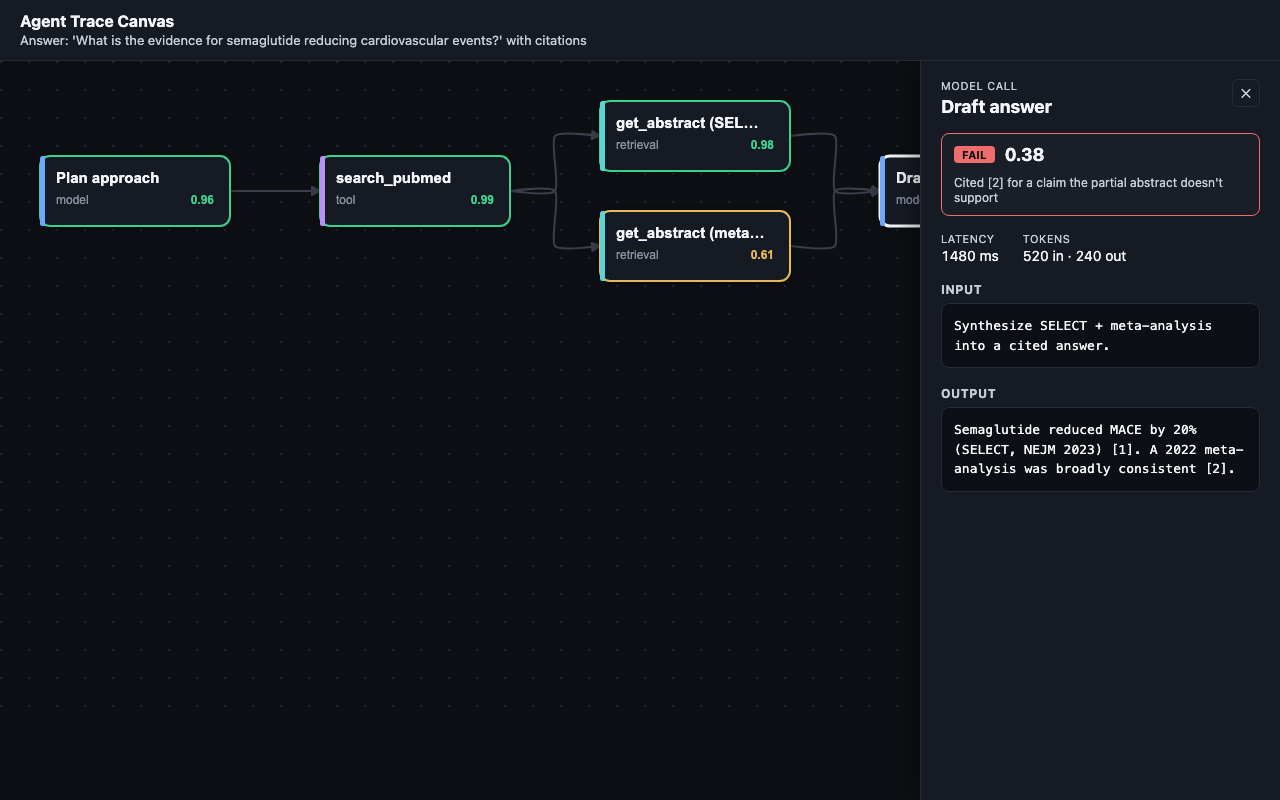
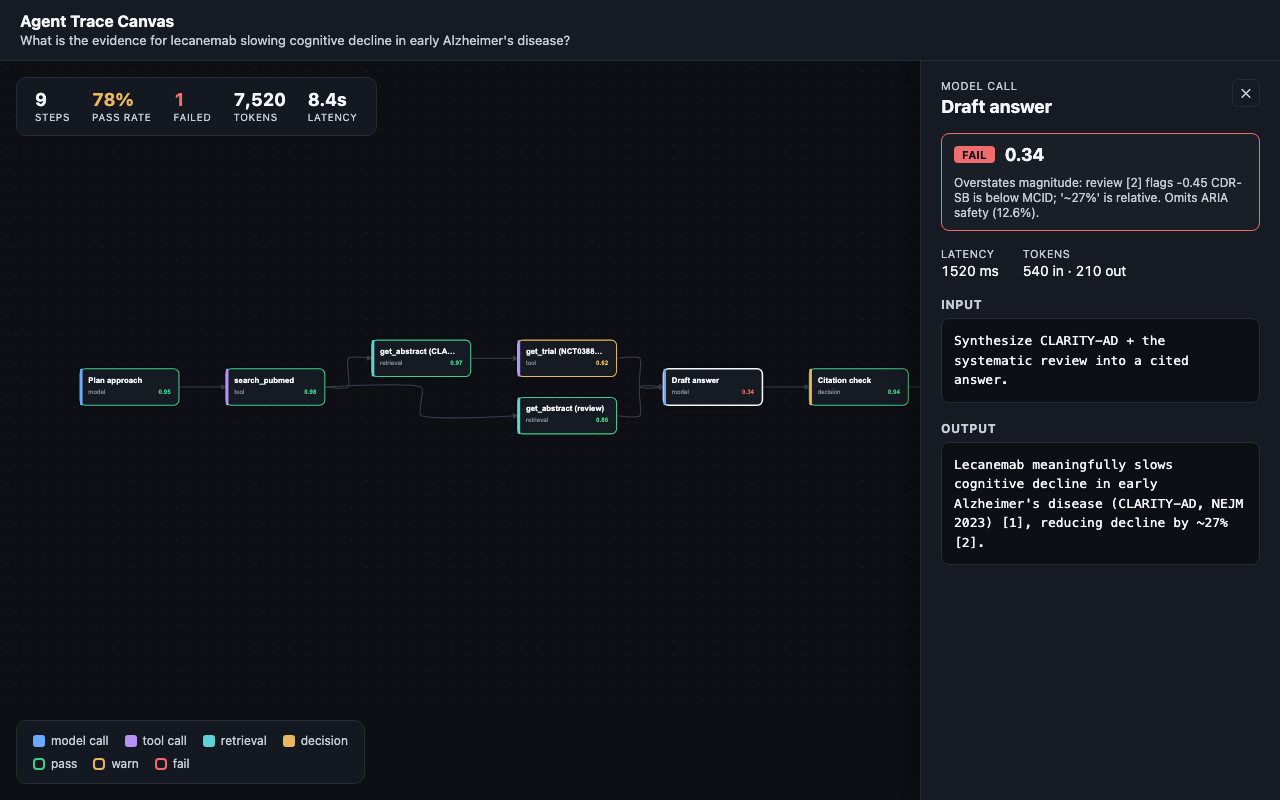
feat: swap in a real PubCrawl agent trace (lecanemab / CLARITY-AD)
- sample-trace.json now from a genuine PubCrawl MCP run: real PMIDs,
  CLARITY-AD primary endpoint, trial registry, systematic review, citation
- honest evals: failed Draft step overstates clinical magnitude (-0.45 CDR-SB
  below MCID); get_trial warns on token-heavy eligibility payload
- Trace.source provenance field; README notes real I/O, illustrative timings
- refreshed docs screenshots

diff --git a/src/types.ts b/src/types.ts
@@ -28,6 +28,8 @@ export interface TraceEdge {
 export interface Trace {
   runId: string
   task: string
+  /** Provenance of the trace data (e.g. which tools produced it). */
+  source?: string
   nodes: TraceNode[]
   edges: TraceEdge[]
 }

diff --git a/README.md b/README.md
@@ -12,9 +12,15 @@ Think *LangSmith traces meet an infinite canvas* — agent observability you can
 ## Why
 
 Reading a giant JSON trace log to debug an agent is painful. Spatial beats linear: branches,
-retries, and dead-ends are obvious when you *see* the graph. This makes agent **evals legible** —
-in the demo run, the agent hallucinates a citation, the eval scores that step `fail`, and a
-downstream citation-check catches it and routes to a revise. The whole story reads off the canvas.
+retries, and dead-ends are obvious when you *see* the graph. This makes agent **evals legible**.
+
+The bundled demo is a **real run against the [PubCrawl](https://github.com/nickjlamb) MCP server** —
+a literature agent answering *"what is the evidence for lecanemab slowing cognitive decline in early
+Alzheimer's?"* The tool inputs/outputs are genuine (real PMIDs, the CLARITY-AD primary endpoint, a
+real systematic review). At step `Draft answer` the agent overstates the clinical magnitude — it
+ignores that the −0.45 CDR-SB difference is below the typical MCID — the eval scores that step
+`fail`, a citation-check catches it, and a revise step fixes it. The whole story reads off the
+canvas. (Latency/token figures are illustrative; the tool I/O is real.)
 
 ![Step inspector](docs/inspector.png)
 
